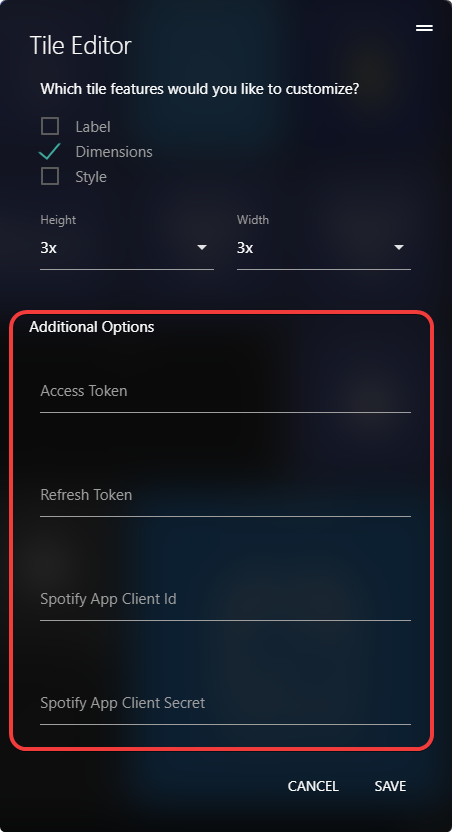
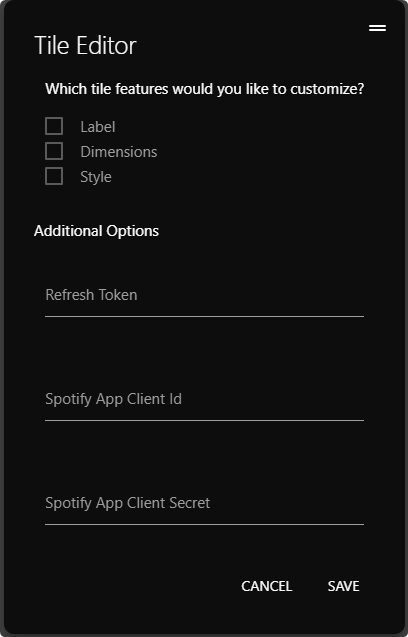
Removed access_token from the settings, and fixed the device and playlist selection bug

diff --git a/Spotify Demo/source.html b/Spotify Demo/source.html
@@ -2,15 +2,14 @@
 <script type="application/json" id="tile-settings">
 {
   "schema": "0.1.0",
-  "settings": [
-    {"type": "STRING", "name": "token",  "label": "Access Token"},
-    {"type": "STRING", "name": "refreshToken", "label": "Refresh Token"},
+  "settings": [        
     {"type": "STRING", "name": "clientId", "label": "Spotify App Client Id"},
     {
       "type": "STRING",
       "name": "clientSecret",
       "label": "Spotify App Client Secret"     
-    }
+    },
+    {"type": "STRING", "name": "refreshToken", "label": "Refresh Token"}
   ],
   "name": "Spotify Demo",
   "dimensions": {"height": 2, "width": 2}
@@ -60,8 +59,8 @@ html{background-color:#212529;}
     -webkit-box-shadow: inset 0 0 6px rgba(0,0,0,0.5); 
 }
 </style>
-<div id="spotify-main" class="text-light bg-dark">  
-  <div id="playback" class="row g-0">
+<div id="spotify-main" class="text-light bg-dark" align="center">  
+  <div id="playback" class="row g-0" align="left">
     <div class="col-4 g-0">
       <svg id="temp-album-art" xmlns="http://www.w3.org/2000/svg" width="16" height="16" fill="currentColor" class="bi bi-music-note-beamed" viewBox="0 0 16 16">
         <path d="M6 13c0 1.105-1.12 2-2.5 2S1 14.105 1 13c0-1.104 1.12-2 2.5-2s2.5.896 2.5 2zm9-2c0 1.105-1.12 2-2.5 2s-2.5-.895-2.5-2 1.12-2 2.5-2 2.5.895 2.5 2z"/>
@@ -119,7 +118,7 @@ html{background-color:#212529;}
       </div>
     </div>  
   </div>
-  <div id="content" class="overflow-auto">
+  <div id="content" class="overflow-auto" align="left">
     <ul id="lists" class="list-group">
     </ul>    
   </div>  
@@ -162,10 +161,7 @@ function showError(message){
 stio.ready().then(function(data){
   console.log("stio is ready");
   userSettings= data && data.settings;
-  if(userSettings.token == null || userSettings.token == ""){
-    showError("Spotify Access Token is not set");
-  }
-  else if(userSettings.refreshToken == null || userSettings.refreshToken == ""){
+  if(userSettings.refreshToken == null || userSettings.refreshToken == ""){
     showError("Spotify Refresh Token is not set");
   }
   else if(userSettings.clientId == null || userSettings.clientId == ""){
@@ -233,7 +229,10 @@ function getPlaylists(){
             item.classList.add('list-group-item');
             item.classList.add('bg-dark');
             item.setAttribute("id", playlist.uri);
-            item.onclick = function(){controlPlayer("play",{contextUri: playlist.uri})};
+            item.onclick = function(){
+              var uri = this.id;
+              controlPlayer("play",{contextUri: uri})
+            };
             item.appendChild(document.createTextNode(playlist.name));
             ulLists.appendChild(item);
           }          
@@ -271,10 +270,15 @@ function getDevices(showDeviceList=false){
           removeAllChildNodes(ulLists);
           for(var i=0; i < spotifyData.devices.length; i++){
             var item = document.createElement("li");
-            var device = spotifyData.devices[i];
+            var device = spotifyData.devices[i];    
             item.classList.add('list-group-item');
-            item.classList.add('bg-dark');            
-            item.onclick = function(){setActiveDevice(device.id, false, "playlists")};
+            item.classList.add('bg-dark');     
+            item.setAttribute("id", device.id);       
+            item.onclick = function(){              
+              var deviceId = this.id;              
+              setActiveDevice(deviceId, false, "playlists");
+            };
+            console.log(item);
             item.appendChild(document.createTextNode(device.name));
             ulLists.appendChild(item);
           }     

diff --git a/Spotify Demo/source_simplified_auth.html b/Spotify Demo/source_simplified_auth.html
@@ -58,8 +58,8 @@ html{background-color:#212529;}
     -webkit-box-shadow: inset 0 0 6px rgba(0,0,0,0.5); 
 }
 </style>
-<div id="spotify-main" class="text-light bg-dark">  
-  <div id="playback" class="row g-0">
+<div id="spotify-main" class="text-light bg-dark" align="center">  
+  <div id="playback" class="row g-0" align="left">
     <div class="col-4 g-0">
       <svg id="temp-album-art" xmlns="http://www.w3.org/2000/svg" width="16" height="16" fill="currentColor" class="bi bi-music-note-beamed" viewBox="0 0 16 16">
         <path d="M6 13c0 1.105-1.12 2-2.5 2S1 14.105 1 13c0-1.104 1.12-2 2.5-2s2.5.896 2.5 2zm9-2c0 1.105-1.12 2-2.5 2s-2.5-.895-2.5-2 1.12-2 2.5-2 2.5.895 2.5 2z"/>
@@ -117,7 +117,7 @@ html{background-color:#212529;}
       </div>
     </div>  
   </div>
-  <div id="content" class="overflow-auto">
+  <div id="content" class="overflow-auto" align="left">
     <ul id="lists" class="list-group">
     </ul>    
   </div>  
@@ -218,7 +218,10 @@ function getPlaylists(){
             item.classList.add('list-group-item');
             item.classList.add('bg-dark');
             item.setAttribute("id", playlist.uri);
-            item.onclick = function(){controlPlayer("play",{contextUri: playlist.uri})};
+            item.onclick = function(){
+              var uri = this.id;
+              controlPlayer("play",{contextUri: uri})
+            };
             item.appendChild(document.createTextNode(playlist.name));
             ulLists.appendChild(item);
           }          
@@ -259,7 +262,10 @@ function getDevices(showDeviceList=false){
             var device = spotifyData.devices[i];
             item.classList.add('list-group-item');
             item.classList.add('bg-dark');            
-            item.onclick = function(){setActiveDevice(device.id, false, "playlists")};
+            item.onclick = function(){
+              var deviceId = this.id;     
+              setActiveDevice(deviceId, false, "playlists")
+            };
             item.appendChild(document.createTextNode(device.name));
             ulLists.appendChild(item);
           }     
